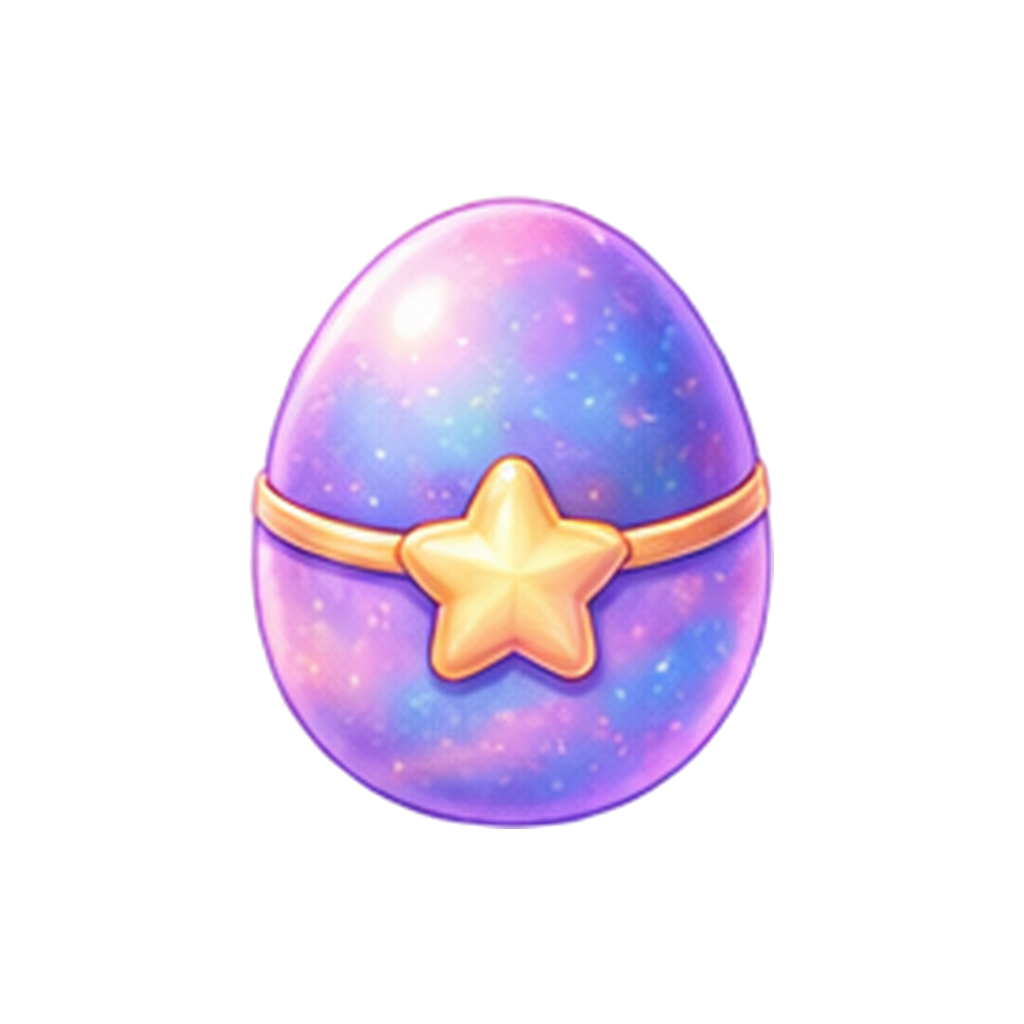
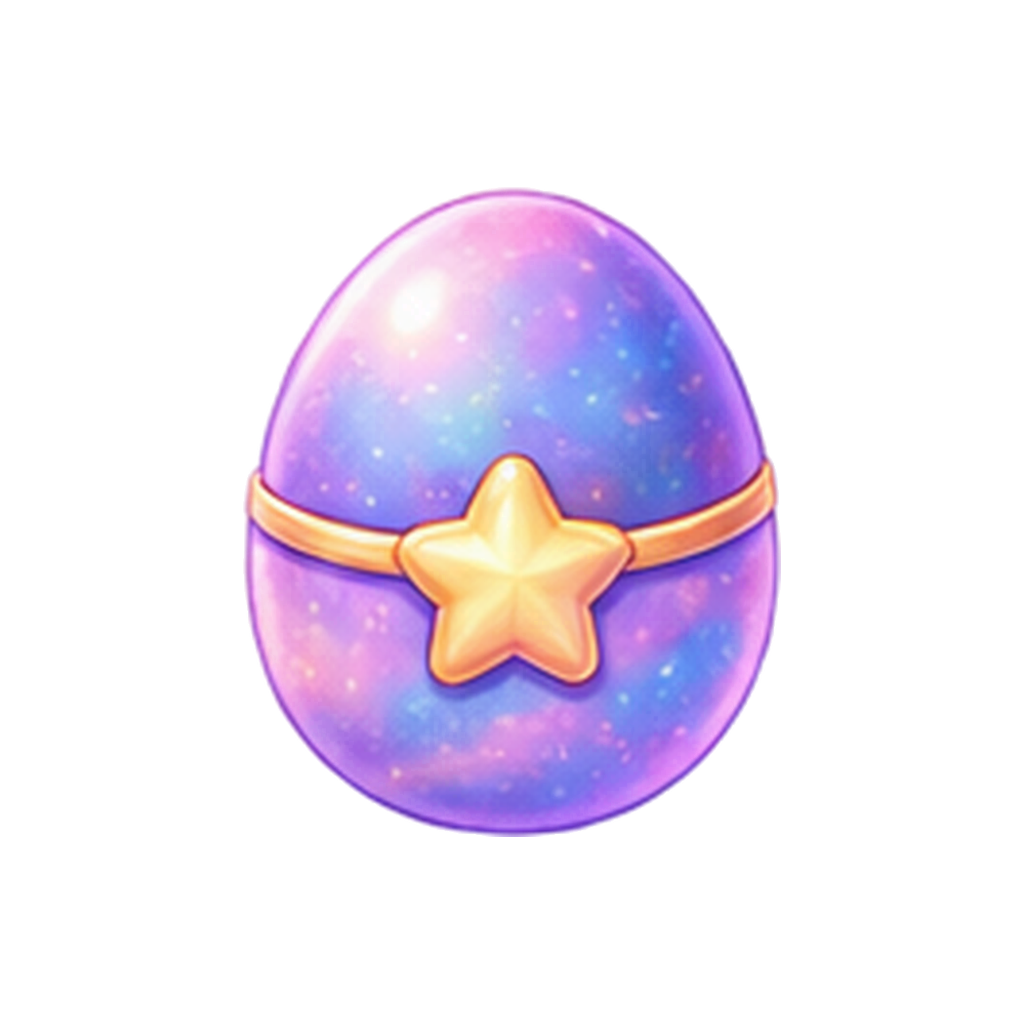
Add files via upload

diff --git a/homologação/rc209-kids-neblina.js b/homologação/rc209-kids-neblina.js
@@ -333,7 +333,7 @@
       ${collectionSelector(c.theme)}
       <div class="r197-current"><div class="r197-current-art">${img(c.pet)}</div><div><span class="r197-label">COMPANHEIRO-ALVO</span><h3>${esc(pet.name)}</h3><p>${esc(pet.desc)}</p><div class="r197-stats"><span><small>Fase</small><b>${esc(phaseLabel)}</b></span><span><small>Pontos do ciclo</small><b>${sd.cycle}</b></span><span><small>Acessórios</small><b>${sd.unlocked}/5</b></span></div></div></div></section>
 
-      <section class="r197-card rc258-trail-card"><div class="r197-head"><div><span class="r197-kicker">TRILHA DO UNIVERSO</span><h3>${esc(col.name)}</h3><p>Medalha Bronze → Medalha Prata → Medalha Ouro → Troféu → Super Troféu</p></div></div><div class="r197-trail rc258-trail">${trail.map(([a,l],i)=>`<div class="r197-step ${i<sd.idx||sd.capsuleReached?'done':''} ${i===sd.idx&&!sd.capsuleReached?'current':''}"><span class="rc258-reward-art"><img src="rc258_reward_${({mist:'neblina',ocean:'oceano',space:'espaco',forest:'floresta',solar:'solar',coral:'coral'}[c.theme]||c.theme)}_${a}.jpg" alt="${esc(col.name)} — ${esc(l)}"></span><b>${l}</b></div>`).join('')}</div><div class="r197-after rc258-capsule rc260-capsule"><div><b>${sd.capsuleReached?'Super Troféu conquistado · cápsula liberada':'Prêmio do Super Troféu: cápsula'}</b><span>${sd.capsuleReached?(sd.complete?'5/5 acessórios · pet completo':'Cápsula aberta · '+sd.unlocked+'/5 acessórios liberados'):'A cápsula é liberada junto com o Super Troféu.'}</span></div><img class="rc260-capsule-art" src="rc260_capsule_${({mist:'neblina',ocean:'oceano',space:'espaco',forest:'floresta',solar:'solar',coral:'coral'}[c.theme]||c.theme)}.jpg" alt="Cápsula do Universo ${esc(col.name)}"></div></section>
+      <section class="r197-card rc258-trail-card"><div class="r197-head"><div><span class="r197-kicker">TRILHA DO UNIVERSO</span><h3>${esc(col.name)}</h3><p>Medalha Bronze → Medalha Prata → Medalha Ouro → Troféu → Super Troféu</p></div></div><div class="r197-trail rc258-trail">${trail.map(([a,l],i)=>`<div class="r197-step ${i<sd.idx||sd.capsuleReached?'done':''} ${i===sd.idx&&!sd.capsuleReached?'current':''}"><span class="rc258-reward-art"><img src="rc258_reward_${({mist:'neblina',ocean:'oceano',space:'espaco',forest:'floresta',solar:'solar',coral:'coral'}[c.theme]||c.theme)}_${a}.jpg" alt="${esc(col.name)} — ${esc(l)}"></span><b>${l}</b></div>`).join('')}</div><div class="r197-after rc258-capsule rc260-capsule"><div><b>${sd.capsuleReached?'Super Troféu conquistado · cápsula liberada':'Prêmio do Super Troféu: cápsula'}</b><span>${sd.capsuleReached?(sd.complete?'5/5 acessórios · pet completo':'Cápsula aberta · '+sd.unlocked+'/5 acessórios liberados'):'A cápsula é liberada junto com o Super Troféu.'}</span></div><img class="rc260-capsule-art" src="rc260_capsule_${({mist:'neblina',ocean:'oceano',space:'espaco',forest:'floresta',solar:'solar',coral:'coral'}[c.theme]||c.theme)}${c.theme==='space'?'.png':'.jpg'}" alt="Cápsula do Universo ${esc(col.name)}"></div></section>
 
       <section class="r197-card"><div class="r197-head row"><div><span class="r197-kicker">COLEÇÃO ${String(col.order).padStart(2,'0')}</span><h3>${esc(col.name)}</h3><p>6 pets · biblioteca temática · 5 acessórios completam cada pet</p></div><span class="r197-count">6 pets</span></div><div class="r197-pets">${col.pets.map(pp=>`<button type="button" data-r152pet="${pp.id}" class="${pp.id===c.pet?'active':''} ${used.has(pp.id)?'used':''}"><span class="r197-pet-art">${img(pp.id)}</span><strong>${esc(pp.name)}</strong><small>${used.has(pp.id)?'conquistado':'disponível'}</small></button>`).join('')}</div></section>
 

diff --git a/homologação/rc290-kids-variants.js b/homologação/rc290-kids-variants.js
@@ -1,0 +1,14 @@
+/* BERTH.A RC290 — Kids final visual normalization */
+(function(){
+ const old=document.getElementById('rc289-kids-variants'); if(old) old.remove();
+ const s=document.createElement('style'); s.id='rc290-kids-variants'; s.textContent=`
+ .rc282-space-pet,.rc282-space-acc,.rc280-ocean-acc{overflow:visible!important;background:transparent!important}
+ .rc282-space-pet img,.rc282-space-acc img,.rc280-ocean-acc img{object-fit:contain!important}
+ /* Névoa: azul/verde claramente presente */
+ .rc282-space-acc[data-v="0"] img,.rc280-ocean-acc[data-v="0"] img{filter:hue-rotate(95deg) saturate(1.18) brightness(1.04)!important}
+ /* Coral: quente, coral/dourado */
+ .rc282-space-acc[data-v="1"] img,.rc280-ocean-acc[data-v="1"] img{filter:hue-rotate(-34deg) saturate(1.22) brightness(1.03)!important}
+ /* Misto: azul + lilás/rosa original, mais contrastado e diferente do coral */
+ .rc282-space-acc[data-v="2"] img,.rc280-ocean-acc[data-v="2"] img{filter:hue-rotate(18deg) saturate(1.12) contrast(1.05)!important}
+ `; document.head.appendChild(s); document.documentElement.dataset.berthaKidsVariants='RC290';
+})();

diff --git a/homologação/index.html b/homologação/index.html
@@ -633,7 +633,7 @@ body.bertha-hml::before{content:"HOMOLOGAÇÃO";position:fixed;z-index:99999;top
   <script src="rc277-super-trofeu-descer.js?v=277"></script>
   <script src="rc280-oceano-acessorios.js?v=281"></script>
   <script src="rc282-space-assets.js?v=289"></script>
-<script src="rc289-kids-variants.js?v=289"></script>
+<script src="rc290-kids-variants.js?v=290"></script>
   <script src="rc239-runtime-clean.js?v=239"></script>
 
 </body>
